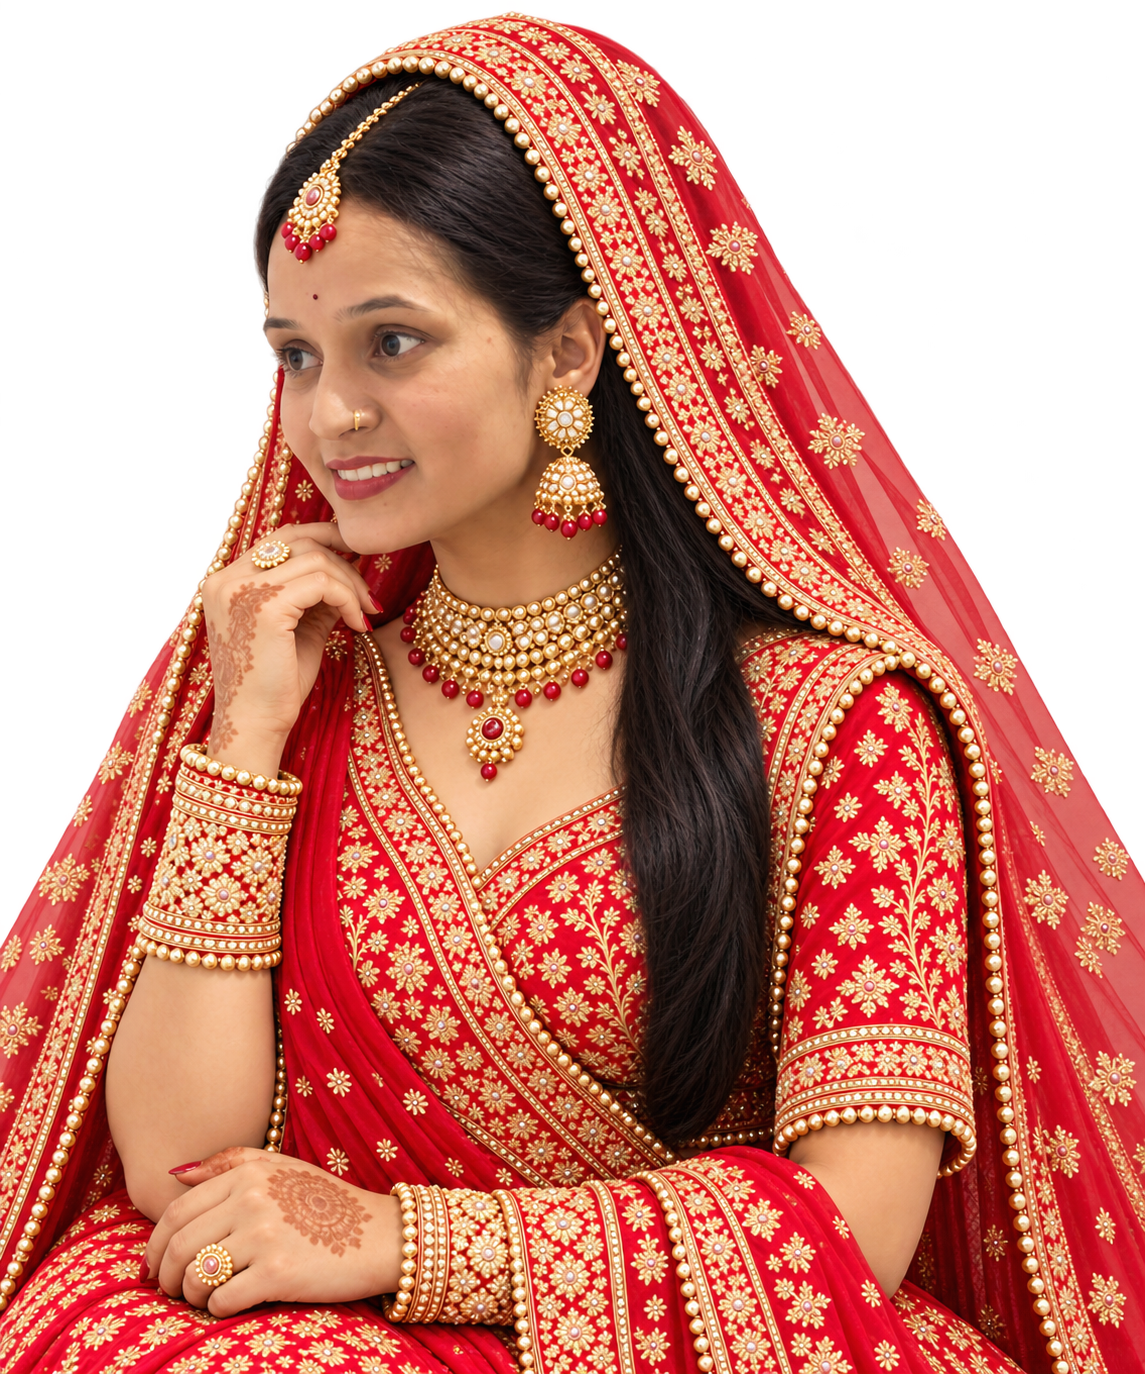
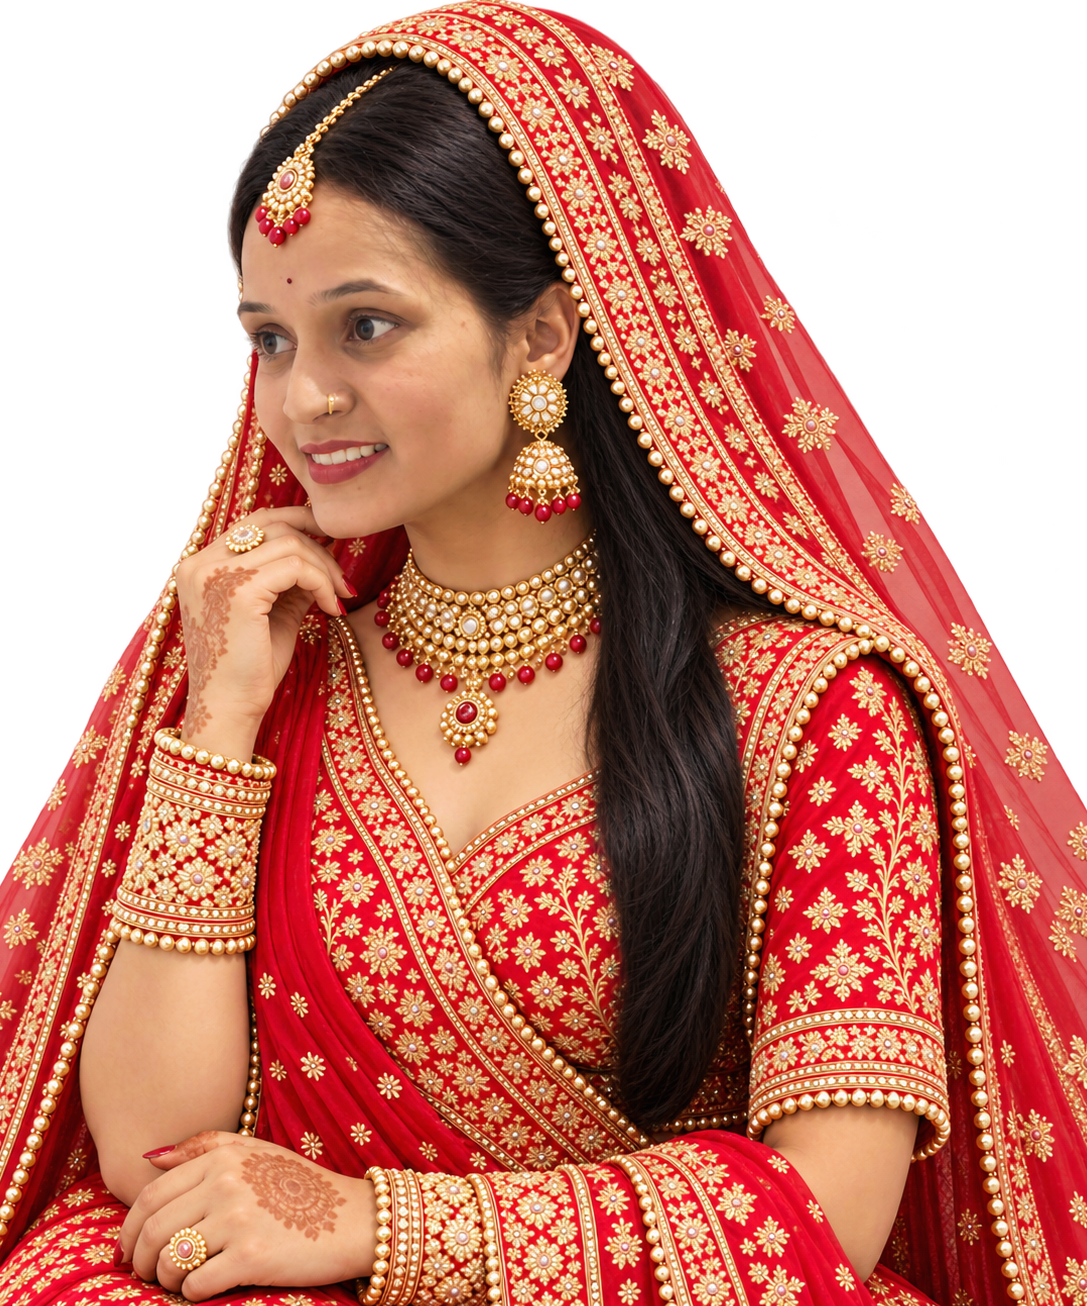
new image section

diff --git a/js/config.js b/js/config.js
@@ -40,8 +40,8 @@
       photo: "assets/images/gallery/bride.png",                        // e.g. "assets/images/bride.jpg"
       parentsPhoto: "",                 // both parents together, e.g. "assets/images/bride-parents.jpg"
       fatherPhoto: "assets/images/gallery/bride-father.png",                  // e.g. "assets/images/bride-father.jpg"  (Family section)
-      motherPhoto: "assets/images/gallery/bride-mother.png", 
-        familyPhoto: "assets/images/gallery/bride-family.png"                  // e.g. "assets/images/bride-mother.jpg"  (Family section)
+      motherPhoto: "assets/images/gallery/bride-mother.png",
+      familyPhoto: "assets/images/gallery/bride-family.png"                  // e.g. "assets/images/bride-mother.jpg"  (Family section)
     },
 
     /* ---------------------------------------------------------------
@@ -58,7 +58,7 @@
       photo: "assets/images/gallery/groom.png",                        // e.g. "assets/images/groom.jpg"
       parentsPhoto: "",                 // e.g. "assets/images/groom-parents.jpg"
       fatherPhoto: "",                  // e.g. "assets/images/groom-father.jpg"
-      motherPhoto: "" ,                  // e.g. "assets/images/groom-mother.jpg"
+      motherPhoto: "",                  // e.g. "assets/images/groom-mother.jpg"
       familyPhoto: "assets/images/gallery/groom-family.png"
     },
 
@@ -66,13 +66,13 @@
        The couple
        --------------------------------------------------------------- */
     couple: {
-      photo: "assets/images/gallery/couple.png",   
+      photo: "assets/images/gallery/couple.png",
       startCardPhoto: "assets/images/gallery/start-card1.png",                     // e.g. "assets/images/couple.jpg" (also used on the opening screen)
       // Faint background photos on the home screen — groom on the LEFT, bride on the RIGHT.
       // Put your photos in assets/images/ with these exact names (tall portrait photos work best).
       // Until the files exist, a gold line-art groom & bride is shown instead.
       heroGroomPhoto: "assets/images/gallery/hero-groom.png",
-      heroBridePhoto: "assets/images/gallery/hero-bride.png",
+      heroBridePhoto: "assets/images/gallery/hero-bride1.png",
       heading: "Two Hearts, One Beautiful Journey",
       story: ""                         // your love story / introduction — leave "" to hide
     },
@@ -86,7 +86,7 @@
       utcOffset: "+05:30",              // time zone of the venue (India = +05:30)
       timeZoneLabel: "IST",             // shown next to times
       city: R,                          // e.g. "Udaipur, Rajasthan"
-      venueName: R,
+      venueName: "Pidhay Bujurg",
       address: R,
       mapUrl: "",                       // Google Maps link for "Get Directions"
       parking: "",                      // optional
@@ -100,8 +100,8 @@
     text: {
       openingHeading: "Together with Our Families",
       openButton: "Open Wedding Invitation",
-      heroLine: "joyfully invite you to celebrate their wedding",
-      parentsInvitation: "With the blessings of our parents and the love of our families, we joyfully invite you to celebrate the wedding of our beloved children.",
+      heroLine: "joyfully invite you to celebrate our wedding",
+      parentsInvitation: "With the blessings of Maa Narmada and our parents, and the love of our families, we joyfully invite you to celebrate our wedding.",
       blessing: "",                     // a blessing or quotation chosen by the family — "" hides the section
       blessingAttribution: "",          // optional
       thankYou: "Your presence, blessings, and love mean the world to us."
@@ -117,40 +117,30 @@
       {
         id: "mehndi", visible: true, theme: "mehndi",
         name: "Mehndi Ceremony",
-        date: R, time: R,
-        venueName: R, address: R, mapUrl: "",
+        date: "2026-11-29", time: "18:00",
+        venueName: "Morghadi", address: R, mapUrl: "",
         description: "Join us as henna, colour and laughter begin the celebrations.",
-        dressCode: "",                  // e.g. "Shades of green & yellow"
+        dressCode: "Lavender",                  // e.g. "Shades of green & yellow"
         photo: "",                      // optional — an illustration is drawn when empty
         details: []
       },
       {
         id: "haldi", visible: true, theme: "haldi",
         name: "Haldi Ceremony",
-        date: R, time: R,
-        venueName: R, address: R, mapUrl: "",
-        description: "A morning of turmeric, marigolds and blessings for the couple.",
-        dressCode: "",
+        date: "2026-11-30", time: "18:00",
+        venueName: "Morghadi", address: R, mapUrl: "",
+        description: "A evening of turmeric, marigolds and blessings for the couple.",
+        dressCode: "Pink",
         photo: "",
         details: []
       },
-      {
-        id: "sangeet", visible: true, theme: "sangeet",
-        name: "Sangeet Ceremony",
-        date: R, time: R,
-        venueName: R, address: R, mapUrl: "",
-        description: "An evening of music, dance and joyful performances by both families.",
-        dressCode: "",
-        photo: "",
-        details: []
-      },
-      {
+          {
         id: "baraat", visible: true, theme: "baraat",
         name: "Baraat",
-        date: R, time: R,
-        venueName: R,                   // starting location
+        date: "2026-12-01", time: "08:00",
+        venueName: "Pidhay Bujurg",                   // starting location
         address: R,
-        mapUrl: "",
+        mapUrl: "https://maps.app.goo.gl/9BPCc83j7o7LGg1c8",
         description: "Dance with us as the groom's procession arrives in royal style.",
         dressCode: "",
         photo: "",
@@ -160,11 +150,11 @@
           { label: "Special instructions", value: "" }
         ]
       },
-      {
+       {
         id: "wedding", visible: true, theme: "wedding",
         name: "Wedding Ceremony",
-        date: R, time: R,               // usually the same as wedding.date / wedding.time
-        venueName: R, address: R, mapUrl: "",
+        date: "2026-12-01", time: "11:00",               // usually the same as wedding.date / wedding.time
+        venueName: "Pidhay Bujurg", address: R, mapUrl: "https://maps.app.goo.gl/9BPCc83j7o7LGg1c8",
         description: "We would be honoured by your presence as we take our pheras and begin our life together.",
         dressCode: "",
         photo: "",                      // e.g. "assets/images/mandap.jpg"
@@ -173,11 +163,23 @@
         ]
       },
       {
+        id: "sangeet", visible: true, theme: "sangeet",
+        name: "Sangeet Ceremony",
+        date: "2026-12-01", time: "18:00",
+        venueName: "Morghadi", address: R, mapUrl: "",
+        description: "An evening of music, dance and joyful performances by us.",
+        dressCode: "",
+        photo: "",
+        details: []
+      },
+  
+     
+      {
         id: "reception", visible: true, theme: "reception",
         name: "Reception",
-        date: R, time: R,
-        venueName: R, address: R, mapUrl: "",
-        description: "Celebrate the newlyweds with us over an evening of dinner and togetherness.",
+        date: "2026-12-02", time: "09:00",
+        venueName: "Morghadi", address: R, mapUrl: "https://maps.app.goo.gl/Py7NuVpFkoV1XJMk6",
+        description: "Celebrate the newlyweds with us over a morning of lunch and togetherness.",
         dressCode: "",
         photo: "",
         details: [
@@ -206,12 +208,12 @@
        --------------------------------------------------------------- */
     gallery: {
       categories: [
-        { id: "groom",       label: "Groom" },
-        { id: "bride",       label: "Bride" },
-        { id: "couple",      label: "Couple" },
-        { id: "engagement",  label: "Engagement" },
-        { id: "family",      label: "Family" },
-        { id: "prewedding",  label: "Pre-wedding" },
+        { id: "groom", label: "Groom" },
+        { id: "bride", label: "Bride" },
+        { id: "couple", label: "Couple" },
+        { id: "engagement", label: "Engagement" },
+        { id: "family", label: "Family" },
+        { id: "prewedding", label: "Pre-wedding" },
         { id: "celebration", label: "Wedding Celebrations" }
       ],
       images: []
@@ -252,7 +254,7 @@
     credits: {
       label: "Website designed & developed by",
       builderName: "Amrit Punasya",
-      builderPhone: "4384384384"
+      builderPhone: "7999649615"
     }
   };
 })();

diff --git a/js/main.js b/js/main.js
@@ -38,14 +38,48 @@
   const fmtDate = (d) => fmt(d, { day: "numeric", month: "long", year: "numeric" });
   const fmtShort = (d) => fmt(d, { day: "numeric", month: "short" });
   const weekday = (d) => fmt(d, { weekday: "long" });
-  function fmtTime(t) {
-    if (!isSet(t) || !TIME_RE.test(t.trim())) return null;
-    let [h, m] = t.trim().split(":").map(Number);
-    if (h > 23 || m > 59) return null;
-    const ap = h >= 12 ? "PM" : "AM";
-    h = h % 12 || 12;
-    return `${h}:${String(m).padStart(2, "0")} ${ap}`;
+ function fmtTime(t) {
+  if (!isSet(t)) return null;
+
+  const value = t.trim();
+
+  // Support both 12-hour AM/PM and 24-hour formats
+  const twelveHour = value.match(
+    /^(\d{1,2}):(\d{2})\s*(AM|PM)$/i
+  );
+
+  if (twelveHour) {
+    let h = Number(twelveHour[1]);
+    const m = Number(twelveHour[2]);
+    const period = twelveHour[3].toUpperCase();
+
+    if (h < 1 || h > 12 || m > 59) return null;
+
+    h = h % 12;
+    if (period === "PM") h += 12;
+
+    const displayHour = h % 12 || 12;
+    return `${displayHour}:${String(m).padStart(2, "0")} ${period}`;
   }
+
+  const twentyFourHour = value.match(
+    /^(\d{1,2}):(\d{2})$/
+  );
+
+  if (twentyFourHour) {
+    const h = Number(twentyFourHour[1]);
+    const m = Number(twentyFourHour[2]);
+
+    if (h > 23 || m > 59) return null;
+
+    const period = h >= 12 ? "PM" : "AM";
+    const displayHour = h % 12 || 12;
+
+    return `${displayHour}:${String(m).padStart(2, "0")} ${period}`;
+  }
+
+  return null;
+}
 
   const B = C.bride || {}, G = C.groom || {}, W = C.wedding || {}, T = C.text || {}, CP = C.couple || {};
   const tz = isSet(W.timeZoneLabel) ? " " + W.timeZoneLabel.trim() : "";
@@ -365,7 +399,7 @@ if (introImg) {
   introImg.style.objectPosition = "center";
 }
     $("#intro-date").innerHTML = weddingDateText ? esc(weddingDateText) : '<span class="tbd">Wedding date to be announced</span>';
-    $("#intro-place").innerHTML = isSet(W.city) ? esc(W.city.trim()) : isSet(W.venueName) ? esc(W.venueName.trim()) : '<span class="tbd">Venue to be announced</span>';
+    $("#intro-place").innerHTML = isSet(W.city) ? esc(W.city.trim()) : isSet(W.venueName) ? esc(W.venueName.trim()) : '<span class="tbd">Village : Pidhay Bujurg  </span>';
     $("#open-btn").textContent = T.openButton || "Open Wedding Invitation";
     if (C.music && isSet(C.music.src)) $("#intro-hint").hidden = false;
   }
@@ -378,7 +412,7 @@ if (introImg) {
       `<span class="amp" aria-hidden="true">&amp;</span><span class="sr"> and </span>` +
       `<span class="nm${brideShort ? "" : " tbd"}">${letters(b, 900 + g.length * 55)}</span>`;
     renderHeroCouple();
-    $("#hero-line").textContent = T.heroLine || "joyfully invite you to celebrate their wedding";
+    $("#hero-line").textContent = T.heroLine || "joyfully invite you to celebrate our wedding";
     $("#hero-date").innerHTML = weddingDateText
       ? esc(weddingDateText) + (fmtTime(W.time) ? ` &middot; ${fmtTime(W.time)}${esc(tz)}` : "")
       : '<span class="tbd">Wedding date to be announced</span>';
@@ -630,7 +664,8 @@ if (introImg) {
     const links = $$("#nav-links a").map((a) => `<li><a href="${a.getAttribute("href")}">${esc(a.textContent)}</a></li>`).join("");
     $("#footer").innerHTML = `
       <p class="f-names">${coupleHTML()}</p>
-      <p class="f-date">${weddingDateLong ? esc(weddingDateLong) : ""}</p>
+      <p class="f-date">2 December 2026</p>
+      <h2 class="f-heading"> Blessing Ceremony & Wedding Reception </h2>
       <p class="f-thanks">Thank you for being part of our story.</p>
       <ul class="f-links">${links}</ul>
       <button class="icon-btn f-music music-toggle" type="button" hidden aria-pressed="false" aria-label="Play music"></button>

diff --git a/css/style.css b/css/style.css
@@ -499,7 +499,7 @@ h1, h2, h3, h4 { overflow-wrap: anywhere; }
 /* =====================================================================
    GALLERY
    ===================================================================== */
-.gallery { background: linear-gradient(180deg, var(--ivory), #FBEDE8); }
+.gallery { background: linear-gradient(180deg, var(--ivory), #FBEDE8); display: none; }
 .chips { display: flex; flex-wrap: wrap; justify-content: center; gap: 8px; max-width: 900px; margin: 0 auto 28px; }
 .chips:empty { display: none; }
 .chip { min-height: 40px; padding: .4em 1.1em; border-radius: 999px; border: 1px solid rgba(122, 38, 58, .35); background: transparent; cursor: pointer; font-size: .85rem; transition: background-color .3s, color .3s; }
@@ -543,7 +543,7 @@ h1, h2, h3, h4 { overflow-wrap: anywhere; }
 /* =====================================================================
    VENUE
    ===================================================================== */
-.venue { background: var(--ivory); }
+.venue { background: var(--ivory); display:none }
 .venue-card {
   display: grid; grid-template-columns: minmax(0, 6fr) minmax(0, 5fr); max-width: 1080px; margin: 0 auto; overflow: hidden;
   background: #fff; border: 1px solid rgba(212, 175, 101, .5); border-radius: 28px; box-shadow: var(--shadow);
@@ -632,7 +632,8 @@ h1, h2, h3, h4 { overflow-wrap: anywhere; }
 .footer::before { content: ""; position: absolute; inset: -13px 0 auto; height: 14px; background: radial-gradient(circle at 10px 15px, transparent 9px, #3E0F1A 10px) 0 0 / 20px 14px repeat-x; }
 .f-names { font-family: var(--serif); font-size: clamp(1.8rem, 1.4rem + 1.6vw, 2.6rem); margin: 0; color: #FBE9C6; }
 .f-names .amp { display: inline; color: var(--gold); margin: 0 .15em; }
-.f-date { margin: .2rem 0 0; color: var(--gold); letter-spacing: .2em; text-transform: uppercase; font-size: .78rem; }
+.f-date { margin: .2rem 0 0; color: var(--gold); letter-spacing: .2em; text-transform: uppercase; font-size: 3.3rem; }
+.f-heading { margin: .5rem 0 0; font-family: var(--serif); font-size: 2.2rem; color: var(--gold); }
 .f-thanks { margin: 1rem auto 0; max-width: 44ch; opacity: .85; font-family: var(--serif); font-style: italic; font-size: 1.1rem; }
 .f-links { display: flex; flex-wrap: wrap; justify-content: center; gap: 4px 18px; list-style: none; margin: 1.6rem 0 0; padding: 0; }
 .f-links a { display: inline-block; padding: 8px 2px; text-decoration: none; font-size: .78rem; letter-spacing: .16em; text-transform: uppercase; opacity: .85; }

diff --git a/index.html b/index.html
@@ -55,11 +55,11 @@
     <nav aria-label="Main">
       <ul id="nav-links" class="nav-links">
         <li><a href="#home">Home</a></li>
-        <li><a href="#story">Our Story</a></li>
+        <li><a href="#story">Couple</a></li>
         <li><a href="#family">Family</a></li>
         <li><a href="#events">Events</a></li>
-        <li><a href="#gallery">Gallery</a></li>
-        <li><a href="#venue">Venue</a></li>
+        <!-- <li><a href="#gallery">Gallery</a></li>
+        <li><a href="#venue">Venue</a></li> -->
       </ul>
     </nav>
     <div class="nav-tools">
@@ -95,7 +95,7 @@
     <section id="story" class="section story" aria-labelledby="story-title">
       <div class="float-flowers" aria-hidden="true"></div>
       <header class="sec-head reveal">
-        <p class="eyebrow">Our Story</p>
+        <p class="eyebrow">The Couple</p>
         <h2 class="sec-title" id="story-title"></h2>
         <svg class="divider" aria-hidden="true"><use href="#divider"/></svg>
       </header>
